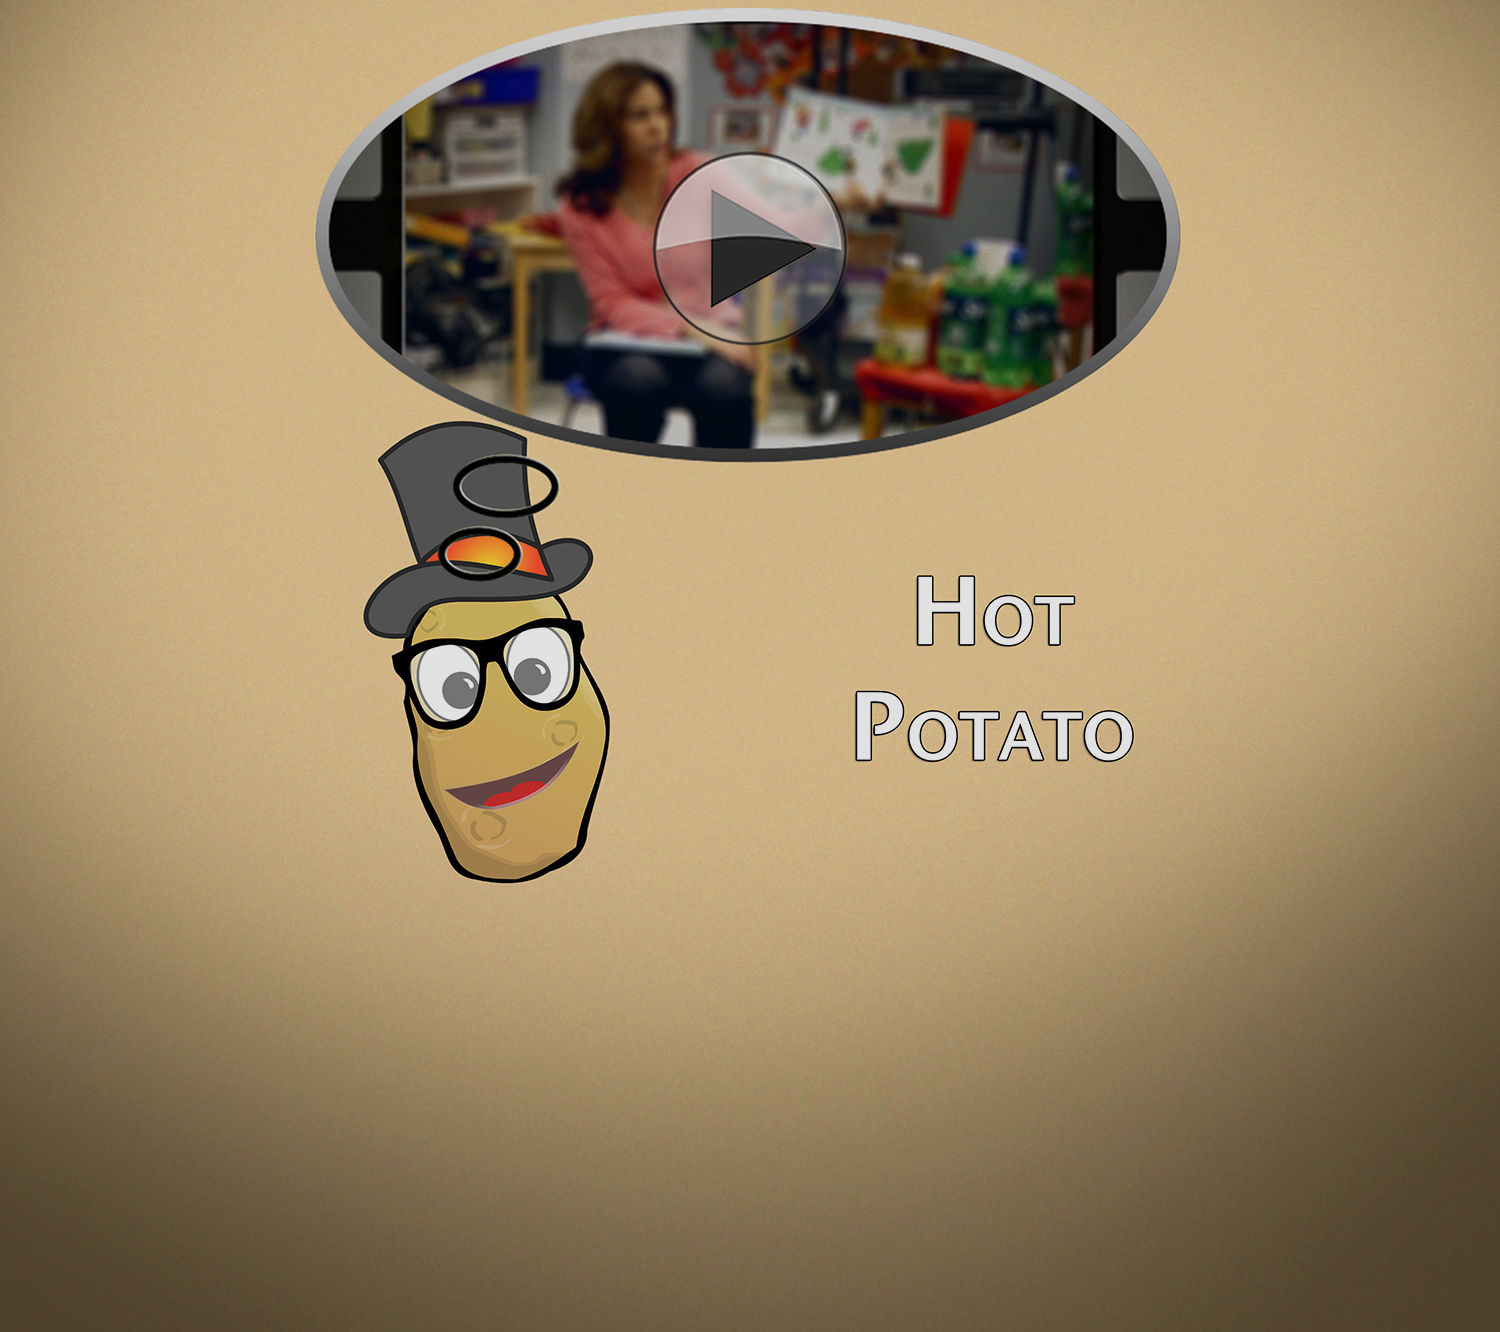
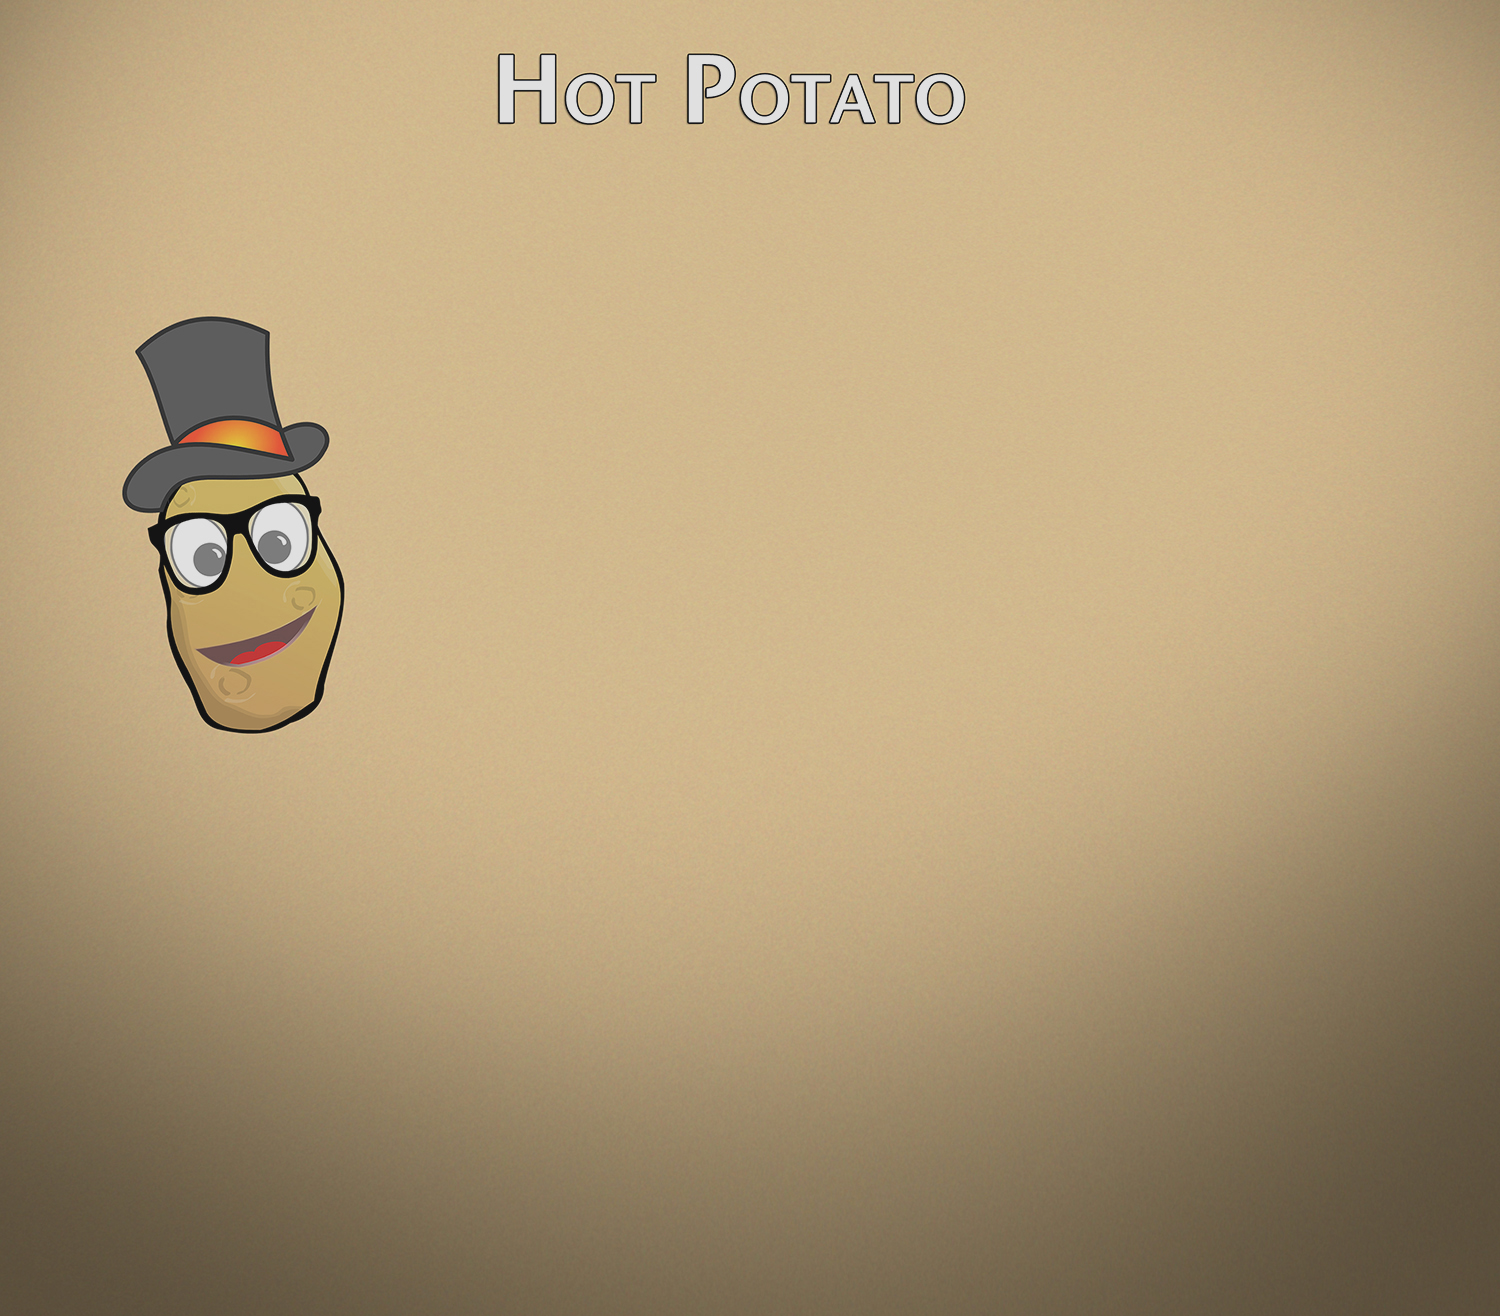
march 31 change 1

Changed region(s): [[0.0613, 0.0, 0.7973, 0.6854], [0.552, 0.4985, 0.7667, 0.5919], [0.6133, 0.4362, 0.736, 0.4985]]

diff --git a/Jeremy-Rifkin_at_CGC15.html b/Jeremy-Rifkin_at_CGC15.html
@@ -1,0 +1,78 @@
+<!DOCTYPE html>
+	<html>
+		<head>
+			<title>Live Off The Interest Limitless Clip</title>
+			<meta name="description" content="Hot Potato The YouTube Video Editor. Try the tool and share your edits!">
+			<meta name="keywords" content="Hot Potato, YouTube, video, editor, edits, sharing, cut, personalize">
+			<link rel="stylesheet" type="text/css" href="css/style.css"/>
+			<link rel="stylesheet" href="https://maxcdn.bootstrapcdn.com/bootstrap/3.2.0/css/bootstrap.min.css">
+			
+			<script src="http://ajax.googleapis.com/ajax/libs/jquery/1.11.1/jquery.min.js" ></script>
+			<script src="https://maxcdn.bootstrapcdn.com/bootstrap/3.3.2/js/bootstrap.min.js"></script>
+			<script src="http://jwpsrv.com/library/F3JbossrEeSDgg4AfQhyIQ.js"></script>
+		</head>
+		
+		<body>
+		<div class="navbar navbar-inverse navbar-fixed-top" role="navigation">
+		      <div class="container">
+		        <div class="navbar-header">
+		          <button type="button" class="navbar-toggle collapsed" data-toggle="collapse" data-target=".navbar-collapse">
+		            <span class="sr-only">Toggle navigation</span>
+		            <span class="icon-bar"></span>
+		            <span class="icon-bar"></span>
+		            <span class="icon-bar"></span>
+		          </button>
+		        </div>
+		        <div class="navbar-collapse collapse">
+		          <ul class="nav navbar-nav">
+		            <li><a href="index.html">Home</a></li>
+		            <li><a href="about.html">About &amp; Contact</a></li>
+					<li><a href="but_why.html">But Why?</a></li>
+		        </div><!--/.nav-collapse -->
+		      </div>
+		    </div>
+		</div>
+		
+		<div class="col-md-offset-3" id="videoPlayback" style="padding-top: 3%; padding-left: 5%">
+		 <!-- 
+		 	<iframe id="videoPlaybackFrame" width="560" height="315" src="https://www.youtube.com/v/7WpImvsYl98&start=114&end=132
+" frameborder="0" allowscriptaccess="always"></iframe>
+		-->
+		<div id="JWvid"></div>
+
+		<script>
+		var endPosition;
+		
+		    jwplayer("JWvid").setup({
+		        file: "https://www.youtube.com/watch?v=75yiRvi48RQ",
+		        width: 640,
+		        height: 360,
+		    });
+			jwplayer("JWvid").onPlay(function () {
+				jwplayer("JWvid").seek(410);
+			});
+			jwplayer("JWvid").onTime(function (event){
+				var realVal = event.position;
+				
+				if (realVal == 433){
+					jwplayer("JWvid").pause();
+				}
+			});
+			
+			
+			// while (endPosition != 118){
+// 				endPosition = jwplayer("JWvid").getPosition();
+// 			};
+// 			if (endPosition == 118){
+// 				jwplayer("JWvid").pause();
+// 				alert('playback is:  ' + endPosition);
+//
+// 			};
+			
+			
+			
+		</script>
+		</div>
+		<img src="https://i.ytimg.com/vi/7WpImvsYl98/mqdefault.jpg" style="visibility:hidden"/>
+		</body>
+		</html>

diff --git a/youtubefeed.html b/youtubefeed.html
@@ -1,0 +1,57 @@
+<!DOCTYPE html>
+	<html>
+		<head>
+			<title>New YouTube Videos</title>
+			<link rel="stylesheet" type="text/css" href="css/style.css"/>
+			<link rel="stylesheet" href="https://maxcdn.bootstrapcdn.com/bootstrap/3.2.0/css/bootstrap.min.css">
+			<script src="https://maxcdn.bootstrapcdn.com/bootstrap/3.3.2/js/bootstrap.min.js"></script>
+		</head>
+	
+		<body>
+			<div class="navbar navbar-inverse navbar-fixed-top" role="navigation">
+			      <div class="container">
+			        <div class="navbar-header">
+			          <button type="button" class="navbar-toggle collapsed" data-toggle="collapse" data-target=".navbar-collapse">
+			            <span class="sr-only">Toggle navigation</span>
+			            <span class="icon-bar"></span>
+			            <span class="icon-bar"></span>
+			            <span class="icon-bar"></span>
+			            <span class="icon-bar"></span>
+			            <span class="icon-bar"></span>
+			          </button>
+			        </div>
+			        <div class="navbar-collapse collapse">
+			          <ul class="nav navbar-nav">
+			            <li><a href="index.html">Home</a></li>
+			            <li><a href="about.html">About &amp; Contact</a></li>
+						<li ><a href="but_why.html">But Why?</a></li>
+						<li><a href="potatotube.html">PotatoTube</a></li>
+						<li class="active" ><a href="youtubefeed.html">New YouTube Videos</a></li>
+			        </div><!--/.nav-collapse -->
+			      </div>
+			    </div>
+			</div>
+			<div class="container">
+				<div class="row">
+					<div class="col-lg-10 col-lg-offset-2">
+							<iframe src="http://squirescreen.com" width="800" height="800" frameborder="0" seamless>
+							</iframe>
+						</div>
+						
+					</div>
+				</div>
+								
+			</div>
+		</body>
+		<script>
+		  (function(i,s,o,g,r,a,m){i['GoogleAnalyticsObject']=r;i[r]=i[r]||function(){
+		  (i[r].q=i[r].q||[]).push(arguments)},i[r].l=1*new Date();a=s.createElement(o),
+		  m=s.getElementsByTagName(o)[0];a.async=1;a.src=g;m.parentNode.insertBefore(a,m)
+		  })(window,document,'script','//www.google-analytics.com/analytics.js','ga');
+
+		  ga('create', 'UA-57874990-4', 'auto');
+		  ga('send', 'pageview');
+
+		</script>
+	</html>
+	

diff --git a/potatotube.html b/potatotube.html
@@ -1,0 +1,57 @@
+<!DOCTYPE html>
+	<html>
+		<head>
+			<title>PotatoTube</title>
+			<link rel="stylesheet" type="text/css" href="css/style.css"/>
+			<link rel="stylesheet" href="https://maxcdn.bootstrapcdn.com/bootstrap/3.2.0/css/bootstrap.min.css">
+			<script src="https://maxcdn.bootstrapcdn.com/bootstrap/3.3.2/js/bootstrap.min.js"></script>
+		</head>
+	
+		<body>
+			<div class="navbar navbar-inverse navbar-fixed-top" role="navigation">
+			      <div class="container">
+			        <div class="navbar-header">
+			          <button type="button" class="navbar-toggle collapsed" data-toggle="collapse" data-target=".navbar-collapse">
+			            <span class="sr-only">Toggle navigation</span>
+			            <span class="icon-bar"></span>
+			            <span class="icon-bar"></span>
+			            <span class="icon-bar"></span>
+			            <span class="icon-bar"></span>
+			            <span class="icon-bar"></span>
+			          </button>
+			        </div>
+			        <div class="navbar-collapse collapse">
+			          <ul class="nav navbar-nav">
+			            <li><a href="index.html">Home</a></li>
+			            <li><a href="about.html">About &amp; Contact</a></li>
+						<li><a href="but_why.html">But Why?</a></li>
+						<li class="active" ><a href="potatotube.html">PotatoTube</a></li>
+						<li><a href="youtubefeed.html">New YouTube Videos</a></li>
+			        </div><!--/.nav-collapse -->
+			      </div>
+			    </div>
+			</div>
+			
+			<div class="container">
+				<div class="row">
+					<div class="col-lg-10 col-lg-offset-2">
+						<iframe src="http://hotpotato.me/posts/" width="800" height="800" frameborder="0" seamless>
+						</iframe>
+					</div>
+				</div>
+								
+				
+			</div>
+		</body>
+		<script>
+		  (function(i,s,o,g,r,a,m){i['GoogleAnalyticsObject']=r;i[r]=i[r]||function(){
+		  (i[r].q=i[r].q||[]).push(arguments)},i[r].l=1*new Date();a=s.createElement(o),
+		  m=s.getElementsByTagName(o)[0];a.async=1;a.src=g;m.parentNode.insertBefore(a,m)
+		  })(window,document,'script','//www.google-analytics.com/analytics.js','ga');
+
+		  ga('create', 'UA-57874990-4', 'auto');
+		  ga('send', 'pageview');
+
+		</script>
+	</html>
+	

diff --git a/index.html b/index.html
@@ -84,6 +84,8 @@
 	            <span class="icon-bar"></span>
 	            <span class="icon-bar"></span>
 	            <span class="icon-bar"></span>
+				<span class="icon-bar"></span>
+				<span class="icon-bar"></span>
 	          </button>
 	        </div>
 	        <div class="navbar-collapse collapse">
@@ -91,17 +93,17 @@
 	            <li class="active"><a href="index.html">Home</a></li>
 	            <li><a href="about.html">About &amp; Contact</a></li>
 				<li><a href="but_why.html">But Why?</a></li>
+				<li><a href="potatotube.html">PotatoTube</a></li>
+				<li><a href="youtubefeed.html">New YouTube Videos</a></li>
 	        </div><!--/.nav-collapse -->
 	      </div>
 	    </div>
 	</div>
 			<div class="container">
 				<div class="row">
-					<div class="col-lg-8 col-lg-offset-2" style="padding-right: 0.5%">
+					<div class="col-lg-3">
 						<div class="intro-message">
-							<h1>
-								The YouTube Video Editor
-							</h1>
+							
 							<h3>
 								Try the tool and share your edits!
 							</h3>
@@ -110,12 +112,12 @@
 				</div>
 			</div>
 			<div class="container">
-				<div class="col-md-6 col-md-offset-3" > 
+				<div class="col-md-6 col-md-offset-3" style="padding-top: 2.5%"> 
 				<form role="form">
 					<div class="form-group">
 						<div class ="row">
 							 
-				    <label for="InputYouTubeLink" style="color: #FFF">Enter YouTube Video Link Here</label>
+				    <label for="InputYouTubeLink" style="color: #f9f9f9">Enter YouTube Video Link Here</label>
 				    <input type="text" class="form-control" id="InputYouTubeLink" placeholder="www.youtube.com..." onclick="displayTimeControls()">
 				  		
 						</div>

diff --git a/about.html b/about.html
@@ -18,6 +18,8 @@
 			            <span class="icon-bar"></span>
 			            <span class="icon-bar"></span>
 			            <span class="icon-bar"></span>
+			            <span class="icon-bar"></span>
+			            <span class="icon-bar"></span>
 			          </button>
 			        </div>
 			        <div class="navbar-collapse collapse">
@@ -25,6 +27,8 @@
 			            <li><a href="index.html">Home</a></li>
 			            <li class="active"><a href="about.html">About &amp; Contact</a></li>
 						<li><a href="but_why.html">But Why?</a></li>
+						<li><a href="potatotube.html">PotatoTube</a></li>
+						<li><a href="youtubefeed.html">New YouTube Videos</a></li>
 			        </div><!--/.nav-collapse -->
 			      </div>
 			    </div>
@@ -34,7 +38,6 @@
 					<div class="col-md-12">
 						<div class="title-text">
 							<h1>
-								About &amp; Contact
 							</h1>
 						</div>
 						<div class="intro-message">

diff --git a/but_why.html b/but_why.html
@@ -16,6 +16,8 @@
 			            <span class="icon-bar"></span>
 			            <span class="icon-bar"></span>
 			            <span class="icon-bar"></span>
+			            <span class="icon-bar"></span>
+			            <span class="icon-bar"></span>
 			          </button>
 			        </div>
 			        <div class="navbar-collapse collapse">
@@ -23,6 +25,8 @@
 			            <li><a href="index.html">Home</a></li>
 			            <li><a href="about.html">About &amp; Contact</a></li>
 						<li class="active"><a href="but_why.html">But Why?</a></li>
+						<li><a href="potatotube.html">PotatoTube</a></li>
+						<li><a href="youtubefeed.html">New YouTube Videos</a></li>
 			        </div><!--/.nav-collapse -->
 			      </div>
 			    </div>
@@ -32,7 +36,6 @@
 					<div class="col-md-12">
 						<div class="title-text">
 							<h1>
-								But Why?
 							</h1>
 						</div>
 						<div class="intro-message">

diff --git a/css/style.css b/css/style.css
@@ -1,17 +1,17 @@
 html, body  {
 	background: url(hotpotatoBackground_feb_4_1500.jpg) no-repeat center top;
-	height: 100%;
+	height: 120%;
 	padding-top: 2%;
 }
 
 .title-text {
 	text-align: center;
-	
-	
+	padding-top: 4.5%;
 	color: #fff;
 }
 .intro-message {
-	text-align: center;
+	text-align: left;
+	padding-top: 1.5%;
 	padding-bottom: 5%;
 	color: #fff;
 }
@@ -30,4 +30,13 @@ html, body  {
 }
 .button {
 	color:#000;
+}
+iframe {
+	
+}
+iframe:focus { 
+    outline: none;
+}
+iframe[seamless] { 
+    display: block;
 }
